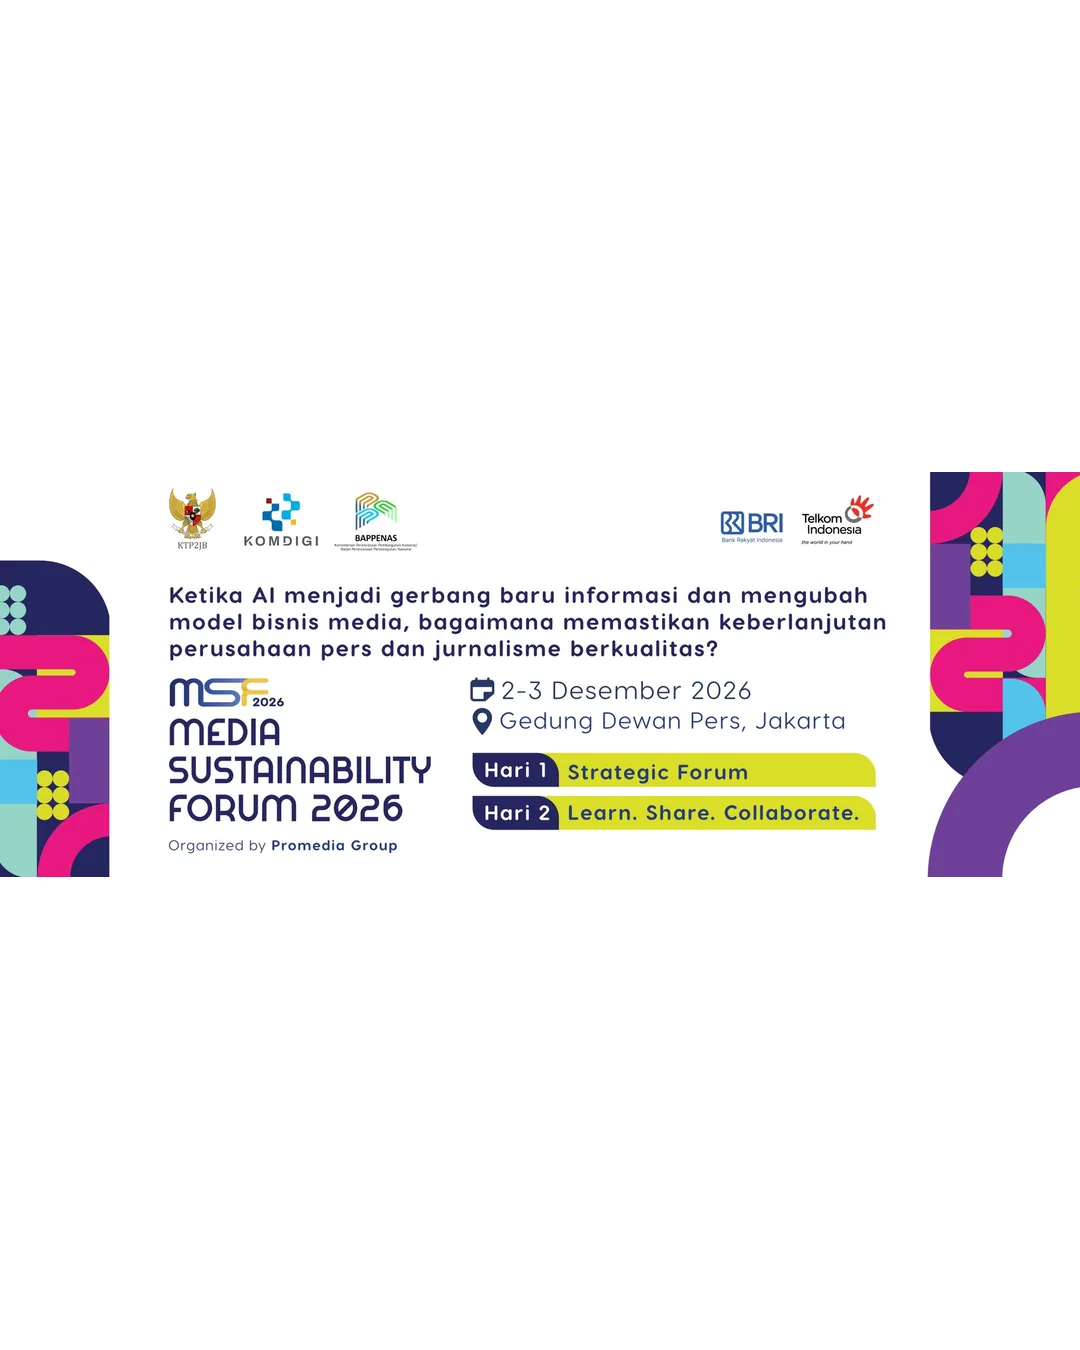
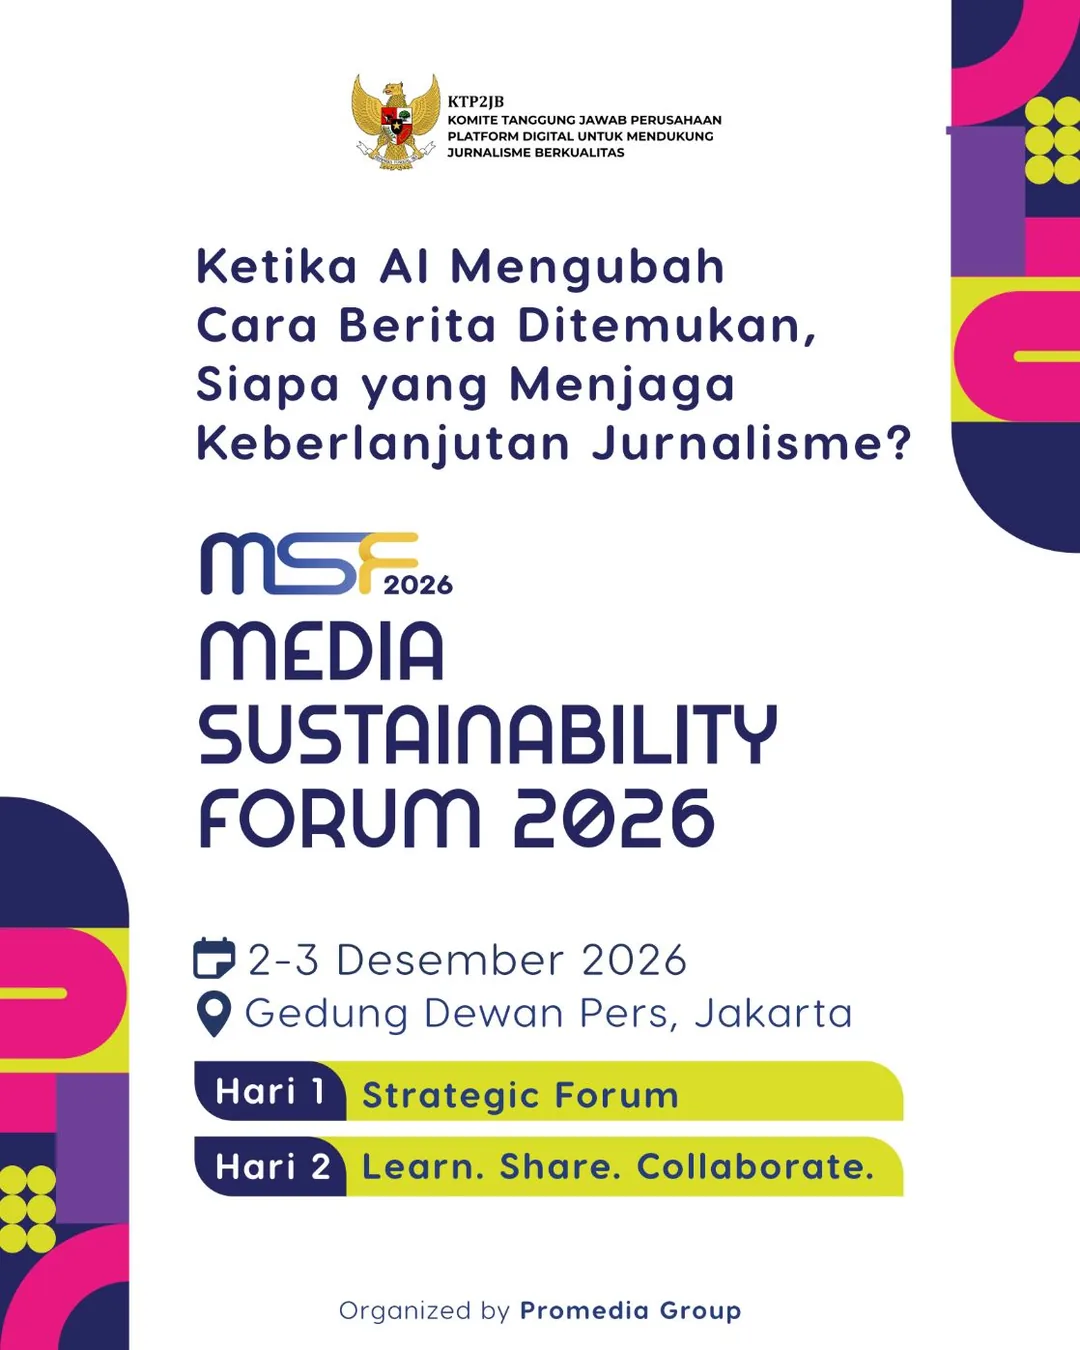
Use official mobile art for hero slide 1.

diff --git a/index.html b/index.html
@@ -55,7 +55,7 @@
           <div class="hero-slide is-active" data-hero-slide>
             <picture>
               <source media="(max-width: 640px)" type="image/webp" srcset="assets/images/hero/hero1-m.webp">
-              <source media="(max-width: 640px)" srcset="assets/images/hero/hero1-m.gif">
+              <source media="(max-width: 640px)" srcset="assets/images/hero/hero1-m.jpg">
               <source type="image/webp" srcset="assets/images/hero/hero1.webp">
               <img src="assets/images/hero/hero1.jpg" width="1920" height="720" alt="MSF 2026 — Ketika AI menjadi gerbang baru informasi dan mengubah model bisnis media, bagaimana memastikan keberlanjutan perusahaan pers dan jurnalisme berkualitas?" decoding="async" fetchpriority="high">
             </picture>
